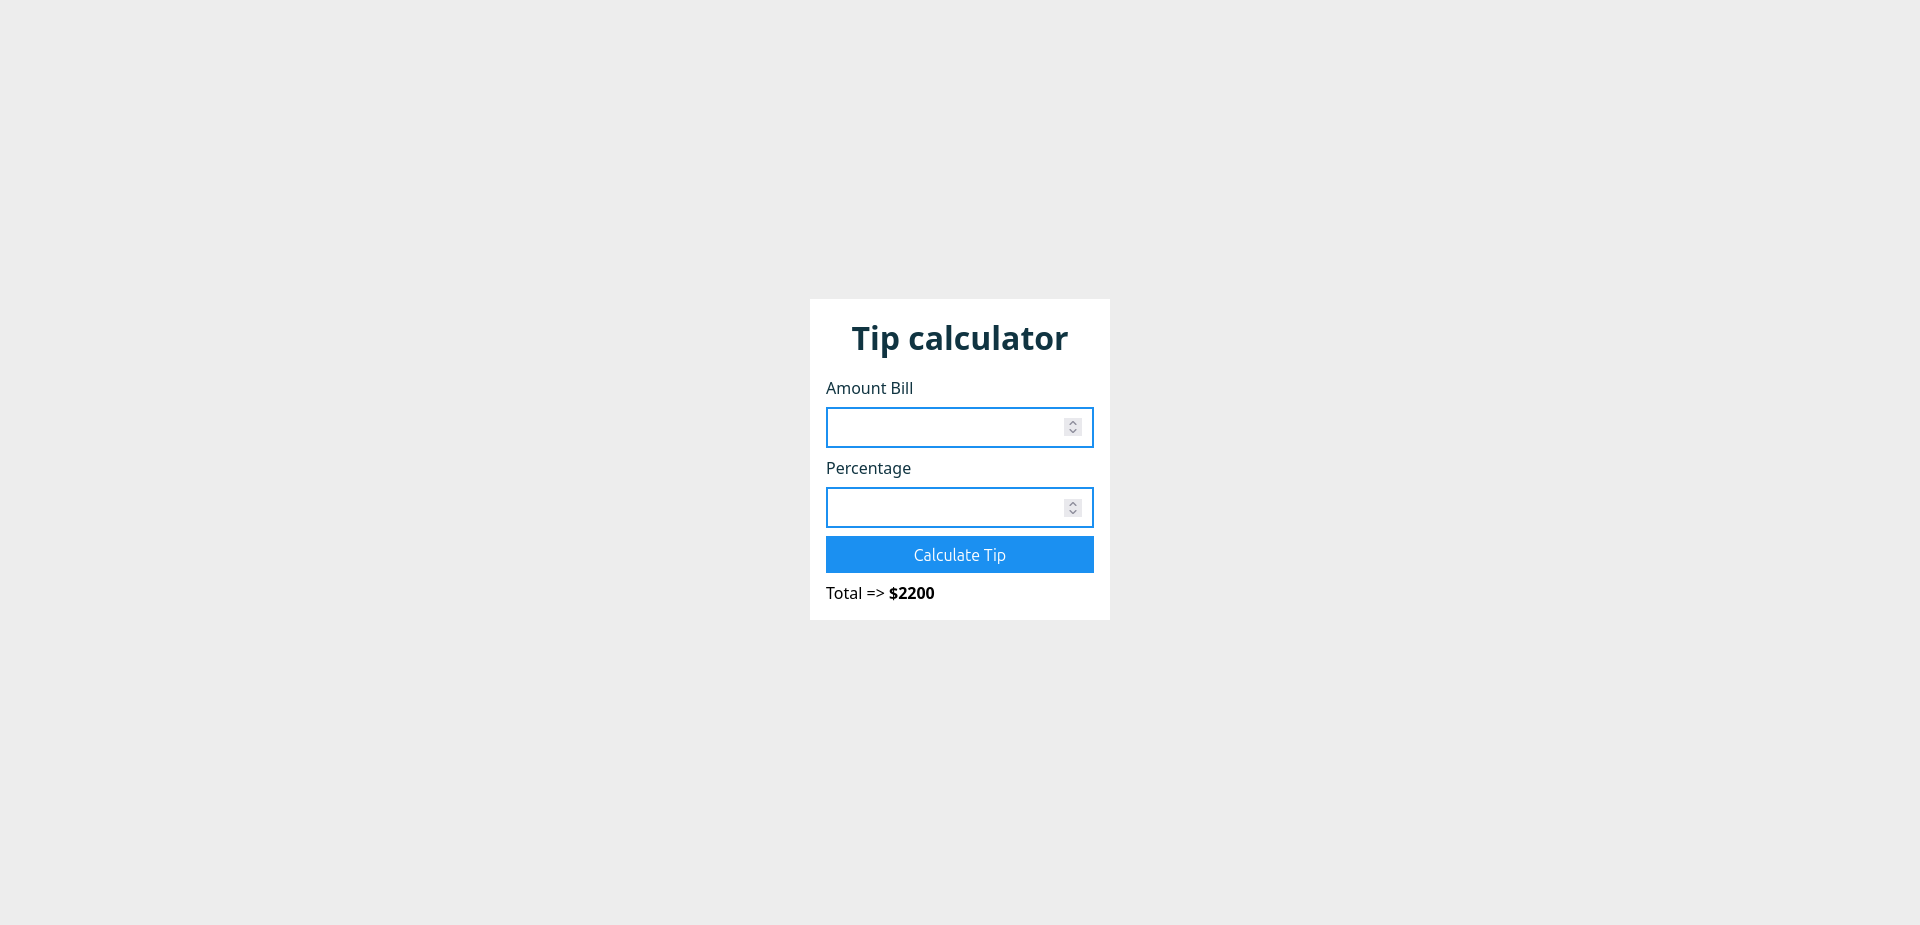
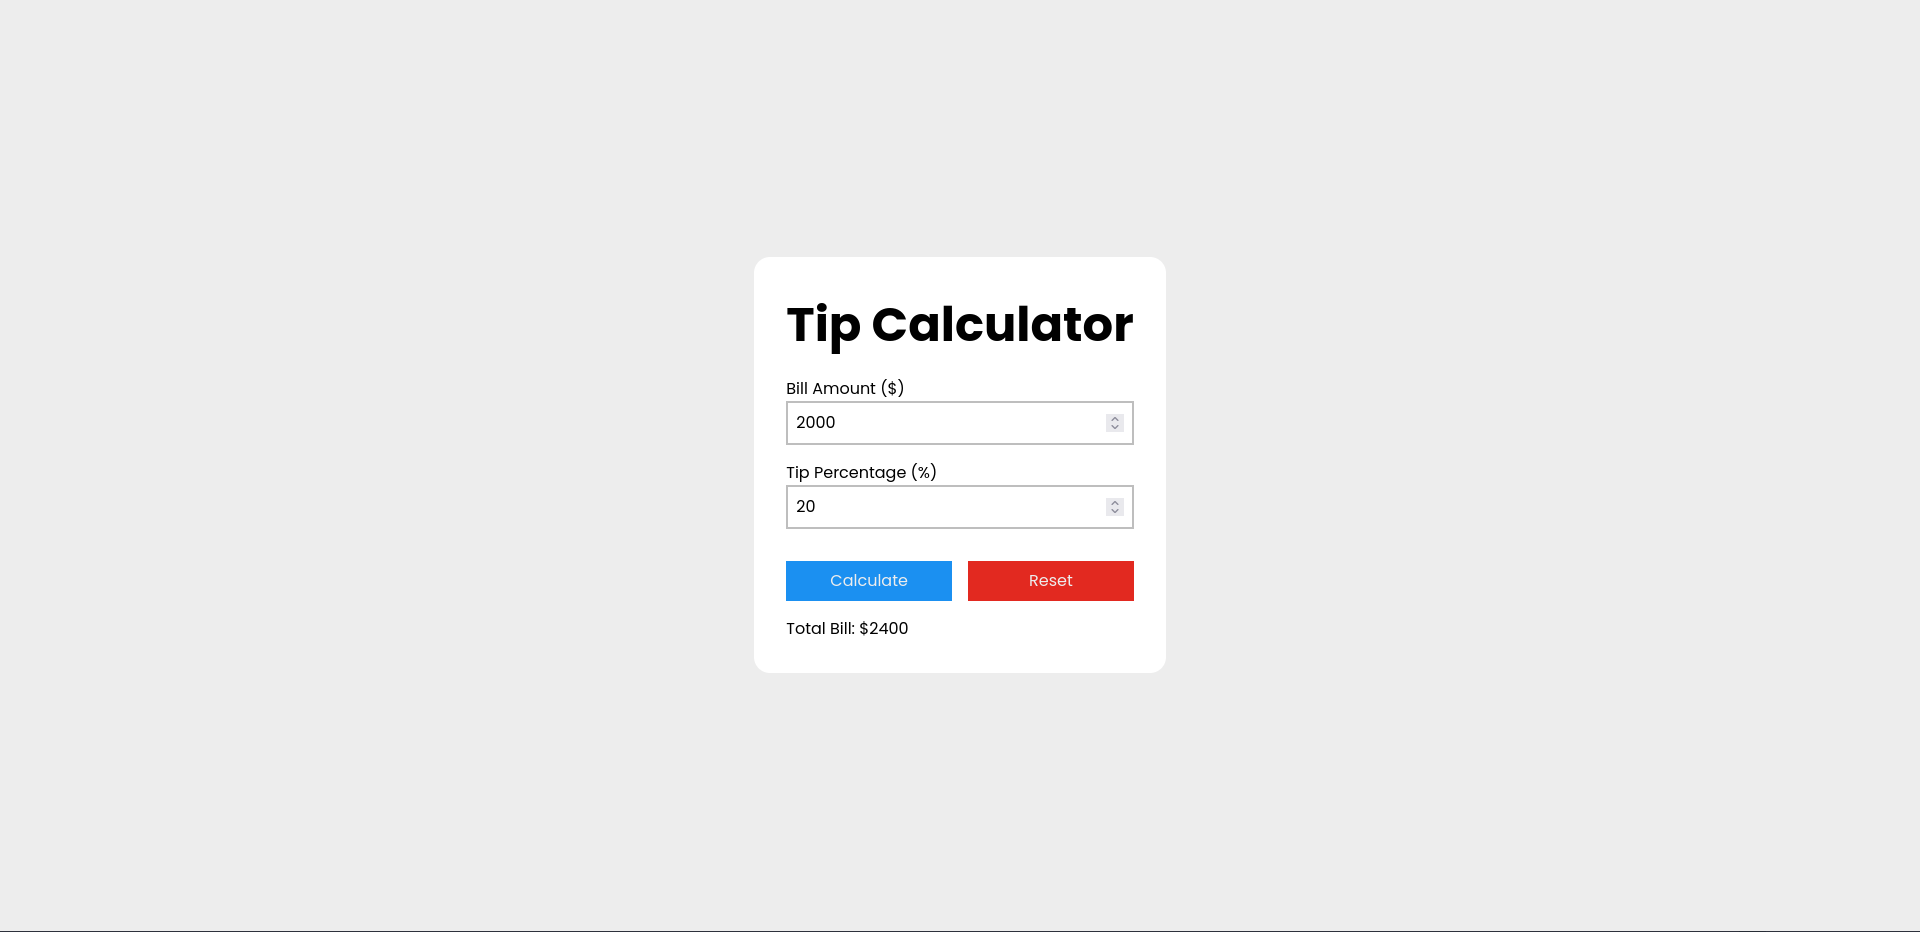
Tip calculator

Changed region(s): [[0.4062, 0.333, 0.5938, 0.6962], [0.0, 0.9989, 1.0, 1.0]]

diff --git a/08.tip-calculator/index.html b/08.tip-calculator/index.html
@@ -1,41 +1,46 @@
 <!DOCTYPE html>
 <html lang="en">
-    <head>
-        <meta charset="UTF-8">
-        <meta name="viewport" content="width=device-width, initial-scale=1.0">
-        <title>Tip Calculator</title>
-        <link rel="shortcut icon" href="./assets/images/tip.png" type="image/x-png">
-        <link rel="stylesheet" href="./assets/css/styles.css">
-        <meta name="description" content="Don't do the math yourself! Our free online Tip Calculator quickly and accurately calculates your tip and total bill amount. Perfect for restaurants, cafes, and bars.">
-        <meta name="keywords" content="html, css, javaScript, SEO, tip calculator, calculate tip, tipping calculator, online tip calculator, how to calculate tip">
-    </head>
-    <body>
-        <main class="main">
-            <div>
-                <h1>Tip calculator</h1>
-            </div>
-            <form>
-                <label for="bill"> Amount Bill
-                    <input 
-                        type="number"
-                        id="bill"
-                        name="bill"
-                    >
-                </label>
-                <label for="percen"> Percentage
-                    <input 
-                        type="number"
-                        id="percen"
-                        name="percen"
-                    >
-                </label>
-                <button>Calculate Tip</button>
-            </form>
-            <div>
-                <p>Total => <strong class="total"></strong></p>
-            </div>
-        </main>
 
-        <script src="./assets/js/index.js"></script>
-    </body>
+<head>
+  <meta charset="UTF-8">
+  <meta name="viewport" content="width=device-width, initial-scale=1.0">
+  <title>Tip Calculator</title>
+  <link rel="shortcut icon" href="./assets/images/tip.png" type="image/x-png">
+  <link rel="stylesheet" href="./assets/css/styles.css">
+  <meta name="description"
+    content="Don't do the math yourself! Our free online Tip Calculator quickly and accurately calculates your tip and total bill amount. Perfect for restaurants, cafes, and bars.">
+  <meta name="keywords"
+    content="html, css, javaScript, SEO, tip calculator, calculate tip, tipping calculator, online tip calculator, how to calculate tip">
+</head>
+
+<body>
+  <main class="main">
+    <form>
+      <div>
+        <h1>Tip Calculator</h1>
+      </div>
+      <div>
+        <label for="user-bill">Bill Amount ($)</label>
+        <input type="number" name="user-bill" id="user-bill" required>
+      </div>
+
+      <div>
+        <label for="user-percentage">Tip Percentage (%)</label>
+        <input type="number" name="user-percentage" id="user-percentage">
+      </div>
+
+      <div class="buttons">
+        <button type="submit" class="submit">Calculate</button>
+        <button type="reset">Reset</button>
+      </div>
+
+      <div>
+        <p>Total Bill: $<span class="total">0</span></p>
+      </div>
+    </form>
+  </main>
+
+  <script src="./assets/js/index.js"></script>
+</body>
+
 </html>

diff --git a/08.tip-calculator/assets/css/styles.css b/08.tip-calculator/assets/css/styles.css
@@ -1,65 +1,99 @@
+@import url('https://fonts.googleapis.com/css2?family=Poppins:ital,wght@0,100;0,200;0,300;0,400;0,500;0,600;0,700;0,800;0,900;1,100;1,200;1,300;1,400;1,500;1,600;1,700;1,800;1,900&display=swap');
+
+:root {
+  --font: "Poppins", sans-serif;
+
+  --color1: #ededed;
+  --color2: #fff;
+  --color3: #1b90f1;
+  --color4: #15609d;
+  --color5: #e22920;
+  --color6: #f86226;
+
+  --regular-spacing: 1rem;
+  --transition: all ease .3s;
+}
+
 * {
-    margin: 0;
-    padding: 0;
-    box-sizing: border-box;
+  padding: 0;
+  margin: 0;
+  box-sizing: border-box;
+  font-family: var(--font);
 }
 
 body {
-    font-family: 'Lucida Sans', 'Lucida Sans Regular', 'Lucida Grande', 'Lucida Sans Unicode', Geneva, Verdana, sans-serif;
-    padding: 1rem;
-    background-color: #ededed;
-    min-height: 100vh;
-    display: flex;
-    align-items: center;
-    justify-content: center;
+  background-color: var(--color1);
 }
 
 main {
-    background-color: white;
-    padding: 1rem;
-    width: 300px;
+  max-width: 700px;
+  margin: 0 auto;
+  min-height: 100vh;
+  display: flex;
+  align-items: center;
+  justify-content: center;
+  padding: var(--regular-spacing);
 }
 
-h1 {
+form {
+  padding: 2rem;
+  background-color: var(--color2);
+  border-radius: var(--regular-spacing);
+  display: flex;
+  flex-direction: column;
+  gap: var(--regular-spacing);
+
+  h1 {
+    font-size: 3rem;
     text-align: center;
-    margin-bottom: 1rem;
-    color: #103441;
-    user-select: none;
-}
+  }
 
-input, button {
+  input {
     display: block;
-    margin: .5rem 0;
-    padding: .6rem;
-    font-size: 1rem;
     width: 100%;
-}
-
-label {
-    color: #103441;
-}
-
-input {
-    border: 2px solid #1b90f1;
-    transition: all ease .4s;
+    padding: .5rem;
+    font-size: var(--regular-spacing);
     outline: none;
-    background-color: transparent;
+    transition: var(--transition);
+    border: 2px solid #bebebe;
+  }
+
+  input:focus {
+    border-color: var(--color4);
+  }
+
 }
 
-input:focus {
-    border: 2px solid #15609d;
-}
+.buttons {
+  display: flex;
+  justify-content: space-between;
+  align-items: center;
+  gap: var(--regular-spacing);
+  margin-top: var(--regular-spacing);
 
-button {
-    background-color: #1b90f1;
-    color: white;
-    border: none;
+  button {
+    padding: .5rem;
+    font-size: var(--regular-spacing);
     cursor: pointer;
-    transition: all ease .4s;
-    margin: .5rem auto;
-}
+    width: 100%;
+    border: none;
+    color: var(--color1);
+    transition: var(--transition);
+  }
 
-button:hover {
-    background-color: #15609d;
-}
+  button:first-child {
+    background-color: var(--color3);
+  }
 
+  button:first-child:hover {
+    background-color: var(--color4);
+  }
+
+  button:last-child {
+    background-color: var(--color5);
+  }
+
+  button:last-child:hover {
+    background-color: var(--color6);
+  }
+}

diff --git a/08.tip-calculator/assets/js/index.js b/08.tip-calculator/assets/js/index.js
@@ -1,19 +1,20 @@
-const form = document.querySelector('form')
-const btnSubmit = document.querySelector('button')
+const formElement = document.querySelector('form')
+const btnElement = document.querySelector('.submit')
 
-const getData = (e) => {
-    e.preventDefault()
-    const formEl = e.currentTarget
-    const formData = new FormData(formEl)
-    
-    const bill = Number(formData.get('bill'))
-    const perc = Number(formData.get('percen')) / 100
+function calculateBill(e) {
 
-    const tip = bill * perc
-    const totalBill = bill + tip
-    document.querySelector('.total').innerText = `$${ totalBill }`
+  e.preventDefault()
 
-    formEl.reset()
+  const formData = new FormData(e.currentTarget)
+
+  const bill = Number(formData.get('user-bill'))
+  const percentage = Number(formData.get('user-percentage')) / 100
+
+  const tip = bill * percentage
+  const total = bill + tip
+
+  document.querySelector('.total').innerText = `${total}`
+
 }
 
-form.addEventListener('submit', getData)
+formElement.addEventListener('submit', calculateBill)
